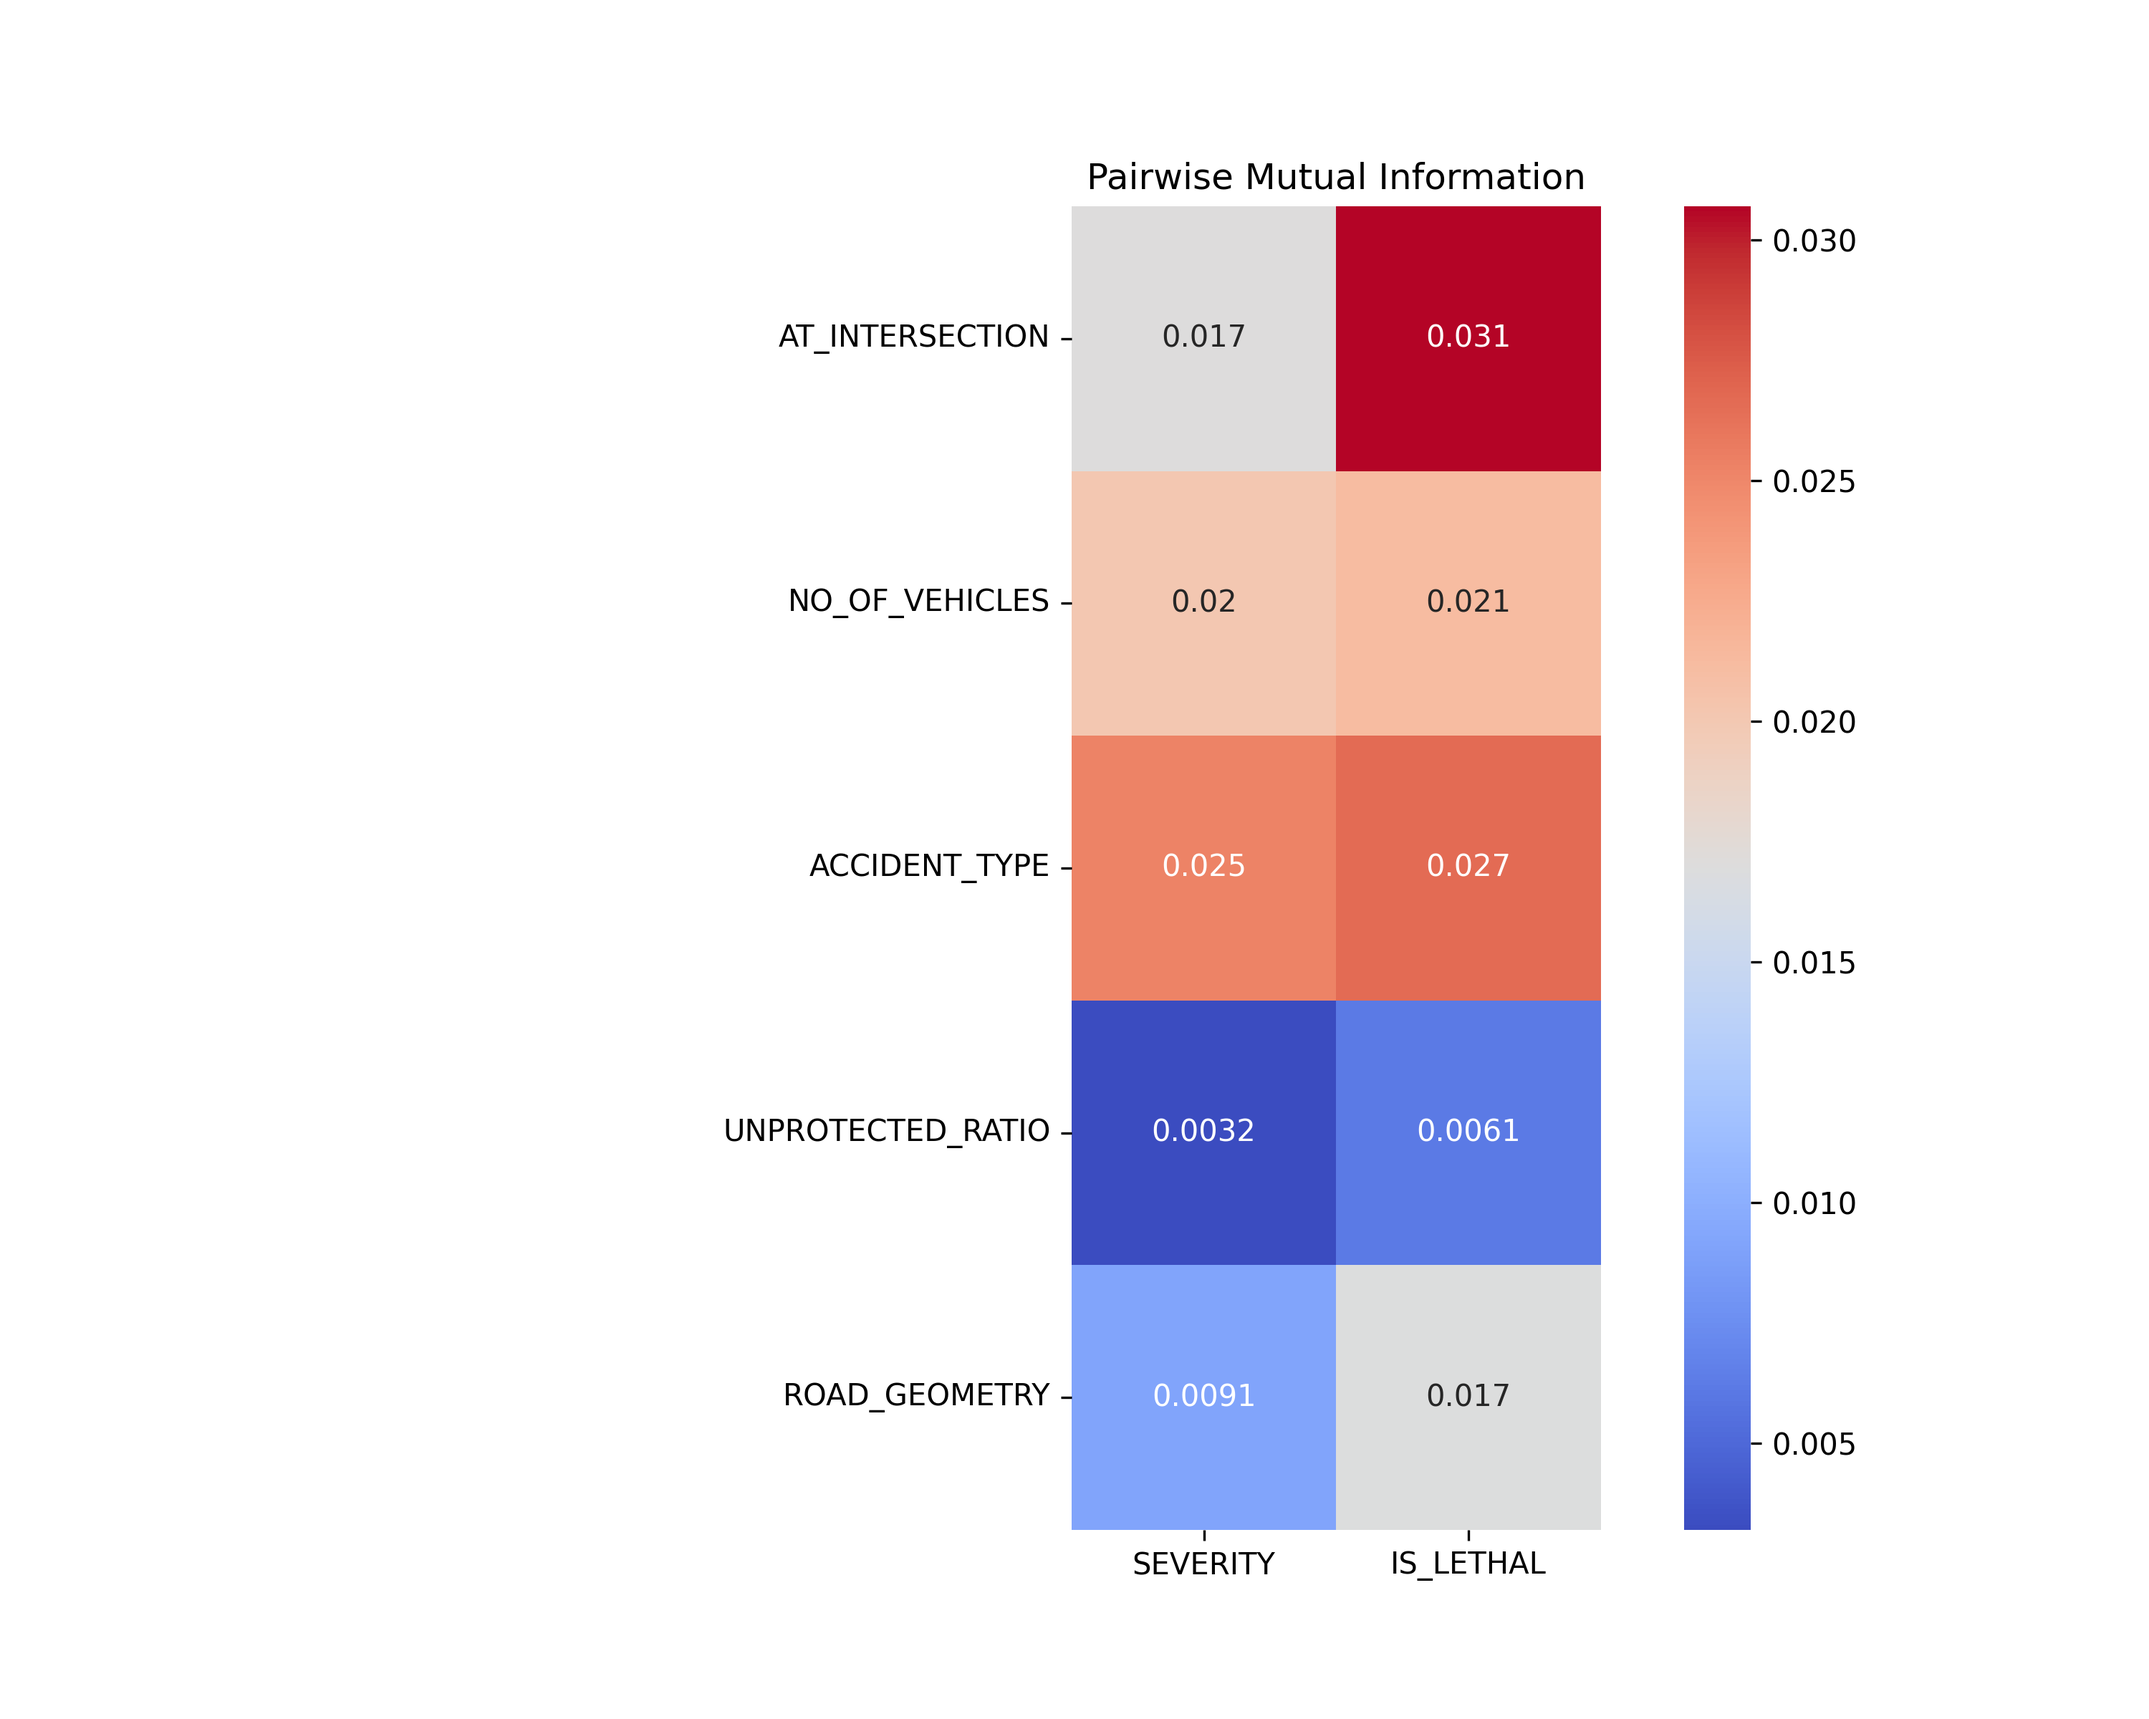
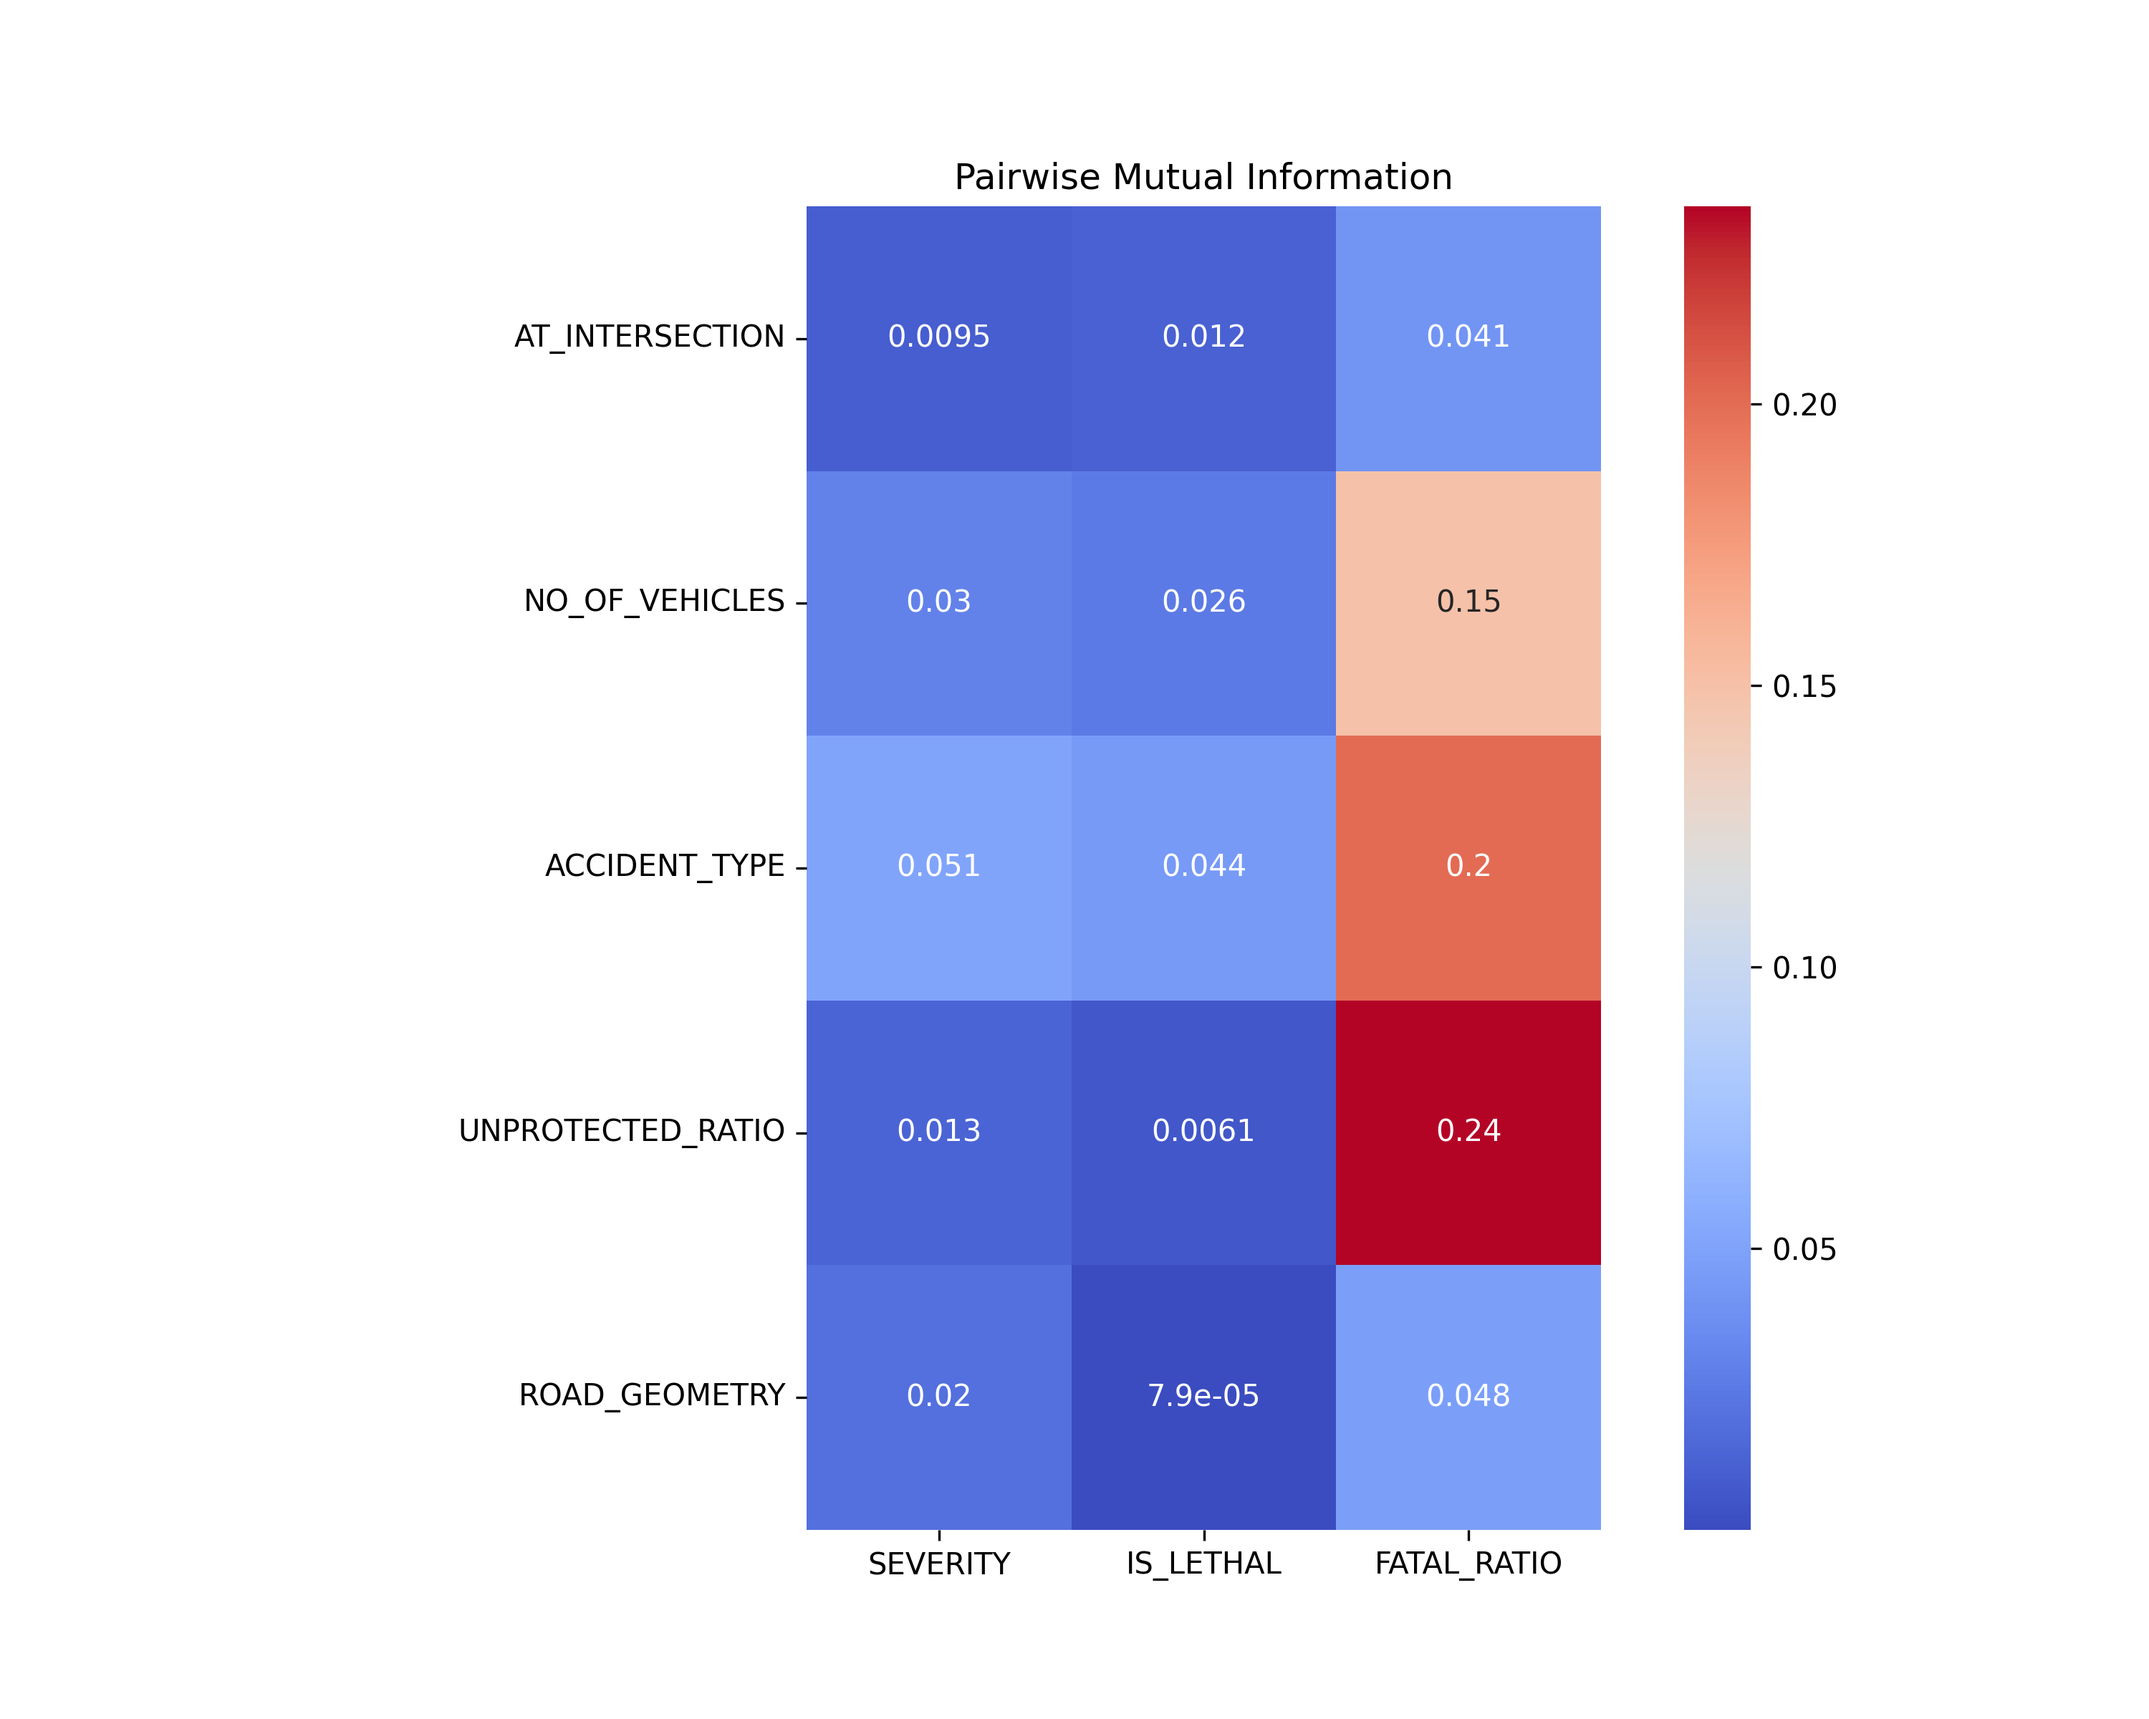
Final cleanup, added normalized mutual information graph

diff --git a/Correlation/all_correlation.py b/Correlation/all_correlation.py
@@ -1,10 +1,14 @@
 import numpy as np
 import matplotlib.pyplot as plt
 import pandas as pd
-import seaborn as sns # requires seaborn[stats]
+import seaborn as sns # requires seaborn[stats] installed
 from sklearn.feature_selection import mutual_info_classif
 from sklearn.model_selection import train_test_split
 from scipy.stats import chi2_contingency
+import statsmodels.api as sm # requires statsmodels installed
+from patsy import dmatrices 
+from scipy.stats import entropy
+
 
 def cramers_corrected_stat(col1, col2): # adjusted from wikipedia
     """ calculate Cramers V statistic for categorial-categorial association.
@@ -21,7 +25,12 @@ def cramers_corrected_stat(col1, col2): # adjusted from wikipedia
     kcorr = k - ((k-1)**2)/(n-1)
     return np.sqrt(phi2corr / min( (kcorr-1), (rcorr-1)))
 
-def mutual_info(inputdata, dep_vars, ind_vars): # adjusted example from Geeksforgeeks.org
+def compute_entropy(series): # helper function for mutual info
+        counts = series.value_counts()
+        probs = counts / counts.sum()
+        return entropy(probs, base=2)
+    
+def mutual_info(inputdata, dep_vars, ind_vars, normal='Regular'): # adjusted example from Geeksforgeeks.org
     """_summary_
 
     Args:
@@ -40,13 +49,20 @@ def mutual_info(inputdata, dep_vars, ind_vars): # adjusted example from Geeksfor
         
     for var in ind_vars:
         data[var] = pd.factorize(data[var])[0]
+    
+    entropies = {var: compute_entropy(data[var]) for var in dep_vars + ind_vars}
 
     for i, var1 in enumerate(ind_vars):
         for j, var2 in enumerate(dep_vars):
             X = data[[var1]]
             y = data[var2]
             mutual_info = mutual_info_classif(X, y)
-            mutual_info_matrix[i, j] = mutual_info[0]
+            h_x = entropies[var1]
+            h_y = entropies[var2]
+            if normal == 'Regular':
+                mutual_info_matrix[i, j] = mutual_info[0] 
+            else: 
+                mutual_info_matrix[i, j] = mutual_info[0] / ((h_x + h_y)/2)
 
     mutual_info_df = pd.DataFrame(mutual_info_matrix, index=ind_vars, columns=dep_vars)
     return mutual_info_df
@@ -89,21 +105,42 @@ unprotected_ratio = person_df.groupby('ACCIDENT_NO')['UNPROTECTED'].mean().reset
 accident_df = accident_df.merge(unprotected_ratio, on='ACCIDENT_NO')
 
 # computes ratio of persons killed / total persons involved in a given accident
-accident_df['FATAL_RATIO'] = accident_df['NO_PERSONS_KILLED'] - accident_df['NO_PERSONS']
+accident_df['FATAL_RATIO'] = accident_df['NO_PERSONS_KILLED'] / accident_df['NO_PERSONS']
 
 # computes if accident involve deaths
-accident_df['IS_LETHAL'] = (accident_df['NO_PERSONS_KILLED'] > 0).astype(int)
-
-# computes the hour + minute as trailing decimal of a given accident
-accident_df['HOUR_AND_MINUTE'] = pd.to_datetime(accident_df['ACCIDENT_TIME'], format='%H:%M:%S').dt.hour + pd.to_datetime(accident_df['ACCIDENT_TIME'], format='%H:%M:%S').dt.minute / 60
+accident_df['IS_LETHAL'] = accident_df['NO_PERSONS_KILLED'].apply(lambda x: 1 if x > 0 else 0)
 
 # computes if recorded person is dead
 person_df['DEAD'] = person_df['INJ_LEVEL'].apply(lambda x: 1 if x == 1 else 0)
 
-# creates df where all rows have fatalities (length: 1415)
-fatal_accident_df = accident_df[accident_df['NO_PERSONS_KILLED'] > 0]
-fatal_person_df = person_df[person_df['INJ_LEVEL'] == 1]
+# sampling a subset of non-fatal accidents, so that the number of fatal and non-fatal class labels are even
+# this is done to remove the bias of there being so many non-fatal records (175751) to fatal records (2944)
+fatal_records = accident_df[accident_df['IS_LETHAL'] == 1]
+non_fatal_entries = accident_df[accident_df['IS_LETHAL'] == 0]
+non_fatal_entries = non_fatal_entries.sample(n=fatal_records.shape[0], random_state=42)
+balanced_accident_df = pd.concat([fatal_records, non_fatal_entries])
 
+# try for scatterplots with some columns with line of best fit
+sns.lmplot(data=balanced_accident_df, x='NO_OF_VEHICLES', y='FATAL_RATIO')
+#plt.savefig("./Correlation/Figures/numvehiclesfatalratioplot.png", dpi=300)
+plt.show()
+
+sns.lmplot(data=balanced_accident_df, x='UNPROTECTED_RATIO', y='FATAL_RATIO')
+#plt.savefig("./Correlation/Figures/unprotectedfatalratioplot.png", dpi=300)
+plt.show()
+
+# prints ordinary least squares regression results of scatter plot
+y, X = dmatrices('FATAL_RATIO ~ NO_OF_VEHICLES + UNPROTECTED_RATIO', data=balanced_accident_df, return_type='dataframe')
+mod = sm.OLS(y, X)
+res = mod.fit()
+print(res.summary())
+
+# sampling for person_df
+fatal_records = person_df[person_df['DEAD'] == 1]
+non_fatal_entries = person_df[person_df['DEAD'] == 0]
+non_fatal_entries = non_fatal_entries.sample(n=fatal_records.shape[0], random_state=42)
+balanced_person_df = pd.concat([fatal_records, non_fatal_entries])
+'''
 # compute cramers v coefficient association 
 accident_cramersv = {}
 for col in accident_df:
@@ -123,13 +160,12 @@ for col in person_df:
 print("PERSON")
 for item in sorted(person_cramersv.items(), key=lambda x: x[1], reverse=True):
     print(item)
-
+'''
 # create mutual information matrix of accident_df and represent in heat map
-dep_vars = ['SEVERITY', 'IS_LETHAL']
+dep_vars = ['SEVERITY', 'IS_LETHAL', 'FATAL_RATIO']
 ind_vars = ['AT_INTERSECTION', 'NO_OF_VEHICLES', 'ACCIDENT_TYPE', 'UNPROTECTED_RATIO', 'ROAD_GEOMETRY']
-#ind_vars = [x for x in accident_df.columns if x not in dep_vars]
 
-mutual_info_df = mutual_info(accident_df, dep_vars, ind_vars)
+mutual_info_df = mutual_info(balanced_accident_df, dep_vars, ind_vars)
 #print(mutual_info_df)
 plt.figure(figsize=(10, 8))
 sns.heatmap(mutual_info_df, annot=True, cmap='coolwarm', square=True)
@@ -137,11 +173,11 @@ plt.title('Pairwise Mutual Information')
 plt.savefig("./Correlation/Figures/accidentMIheatmap.png", dpi=300)
 plt.show()
 
-dep_vars = ['DEAD']
-ind_vars = ['SEX', 'AGE_GROUP', 'IN_METAL_BOX', 'ROAD_USER_TYPE', 'TAKEN_HOSPITAL', 'UNPROTECTED']
-#ind_vars = [x for x in person_df.columns if x not in dep_vars]
 
-mutual_info_df = mutual_info(person_df, dep_vars, ind_vars)
+dep_vars = ['DEAD', 'INJ_LEVEL']
+ind_vars = ['SEX', 'AGE_GROUP', 'IN_METAL_BOX', 'ROAD_USER_TYPE', 'UNPROTECTED']
+
+mutual_info_df = mutual_info(balanced_person_df, dep_vars, ind_vars)
 #print(mutual_info_df)
 plt.figure(figsize=(10, 8))
 sns.heatmap(mutual_info_df, annot=True, cmap='coolwarm', square=True)
@@ -149,6 +185,31 @@ plt.title('Pairwise Mutual Information')
 plt.savefig("./Correlation/Figures/personMIheatmap.png", dpi=300)
 plt.show()
 
+# create normalized mutual information matrix of accident_df and represent in heat map
+dep_vars = ['SEVERITY', 'IS_LETHAL', 'FATAL_RATIO']
+ind_vars = ['AT_INTERSECTION', 'NO_OF_VEHICLES', 'ACCIDENT_TYPE', 'UNPROTECTED_RATIO', 'ROAD_GEOMETRY']
+
+mutual_info_df = mutual_info(balanced_accident_df, dep_vars, ind_vars, "Normal")
+#print(mutual_info_df)
+plt.figure(figsize=(10, 8))
+sns.heatmap(mutual_info_df, annot=True, cmap='coolwarm', square=True)
+plt.title('Pairwise Normalized Mutual Information')
+plt.savefig("./Correlation/Figures/accidentNMIheatmap.png", dpi=300)
+plt.show()
+
+
+dep_vars = ['DEAD', 'INJ_LEVEL']
+ind_vars = ['SEX', 'AGE_GROUP', 'IN_METAL_BOX', 'ROAD_USER_TYPE', 'UNPROTECTED']
+
+mutual_info_df = mutual_info(balanced_person_df, dep_vars, ind_vars, "Normal")
+#print(mutual_info_df)
+plt.figure(figsize=(10, 8))
+sns.heatmap(mutual_info_df, annot=True, cmap='coolwarm', square=True)
+plt.title('Pairwise Normalized Mutual Information')
+plt.savefig("./Correlation/Figures/personNMIheatmap.png", dpi=300)
+plt.show()
+
+''' # ignore
 # create side by side barplots of overall data vs fatal data by column
 compare_count_barplot(accident_df, fatal_accident_df, 'SPEED_ZONE', ylim=43, title2="Fatal")
 plt.savefig("./Correlation/Figures/speedzonecompplot.png", dpi=300)
@@ -174,6 +235,7 @@ compare_count_barplot(person_df, fatal_person_df, 'AGE_GROUP', ylim=21, title2="
 plt.savefig("./Correlation/Figures/agegroupcompplot.png", dpi=300)
 plt.show()
 
-compare_count_barplot(person_df, fatal_person_df, 'UNPROTECTED', ylim=90, title2="Fatal")
+compare_count_barplot(person_df, fatal_person_df, 'UNPROTECTED', ylim=70, title2="Fatal")
 plt.savefig("./Correlation/Figures/unprotectedcompplot.png", dpi=300)
 plt.show()
+'''
